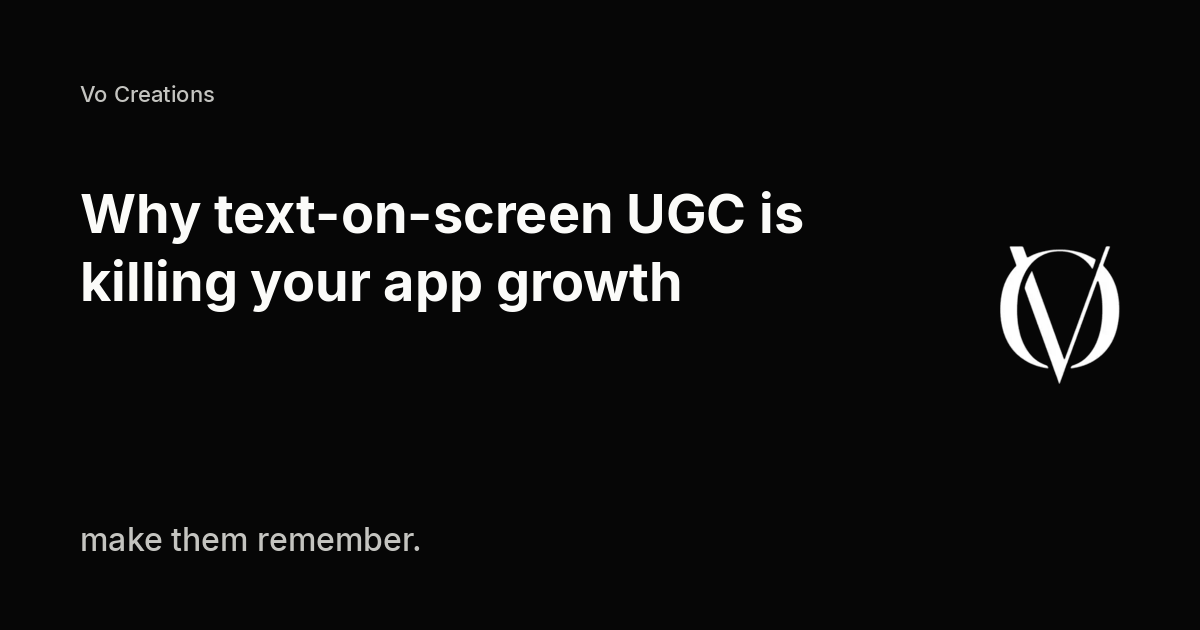
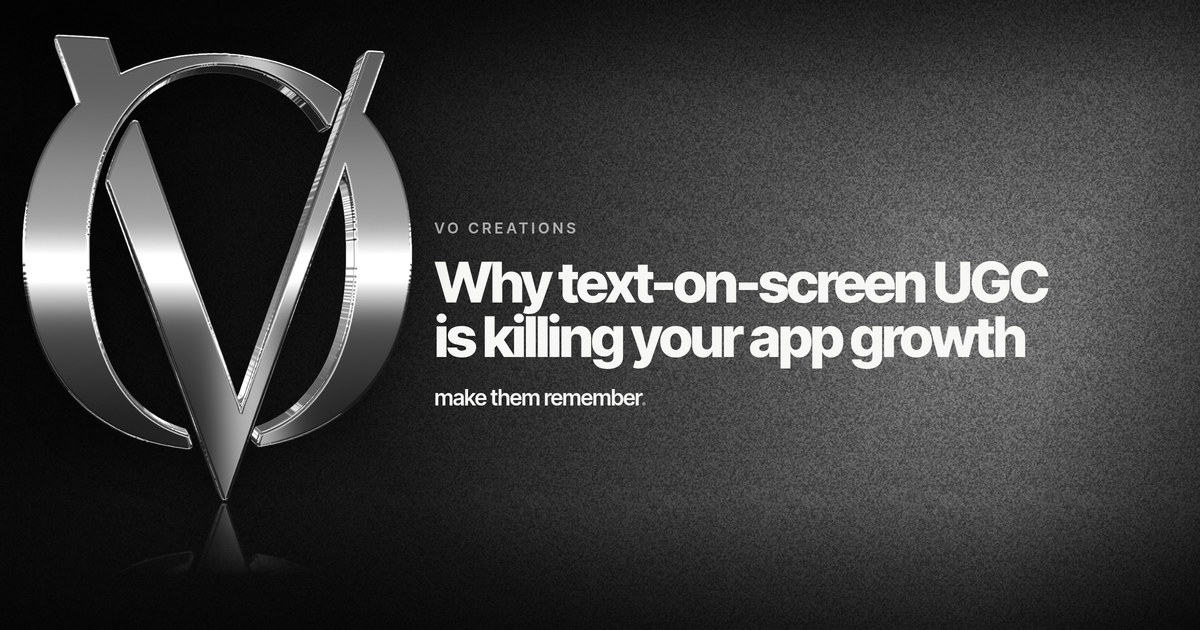
Redraw the blog covers with the chrome VO. (#52)
Index cards and post Open Graph images now use the chrome monogram on grainy silk, with the post title as the bold line and the tagline underneath.

diff --git a/scripts/render-blog-og.ts b/scripts/render-blog-og.ts
@@ -1,0 +1,146 @@
+/**
+ * Renders public/og/blog/<slug>.png from the same CSS as components/blog/BlogCover.tsx.
+ * Run: npm run og:blog
+ * Needs Google Chrome and the Inter Tight files downloaded on first run.
+ */
+import { mkdirSync, readFileSync, writeFileSync, rmSync, existsSync } from "node:fs";
+import { tmpdir } from "node:os";
+import { join, resolve } from "node:path";
+import { spawnSync } from "node:child_process";
+import { fileURLToPath } from "node:url";
+import { posts } from "../lib/blog/posts";
+
+const ROOT = resolve(fileURLToPath(new URL("..", import.meta.url)));
+const WIDTH = 1200;
+const HEIGHT = 630;
+const SCALE = 2;
+
+function coverCss(): string {
+  const css = readFileSync(join(ROOT, "app/globals.css"), "utf8");
+  const start = css.indexOf("/* blog-cover:start");
+  const end = css.indexOf("/* blog-cover:end */");
+  if (start < 0 || end < 0) throw new Error("blog-cover CSS markers missing from app/globals.css");
+  const block = css.slice(css.indexOf("*/", start) + 2, end);
+  const grain = join(ROOT, "public/brand/grain.png");
+  return block.replace('url("/brand/grain.png")', `url("${grain}")`);
+}
+
+function ensureFont(dir: string, file: string, url: string) {
+  const dest = join(dir, file);
+  const result = spawnSync("curl", ["-fsSL", "-o", dest, url], { stdio: "inherit" });
+  if (result.status !== 0) throw new Error(`Could not download ${file}`);
+  return dest;
+}
+
+function escapeHtml(value: string): string {
+  return value
+    .replace(/&/g, "&amp;")
+    .replace(/</g, "&lt;")
+    .replace(/>/g, "&gt;");
+}
+
+function cardHtml(title: string, mark: string, fontDir: string): string {
+  return `<!doctype html>
+<html>
+<head>
+<meta charset="utf-8" />
+<style>
+@font-face { font-family: "Inter Tight"; font-weight: 800; src: url("${join(fontDir, "InterTight-800.ttf")}") format("truetype"); }
+@font-face { font-family: "Inter Tight"; font-weight: 600; src: url("${join(fontDir, "InterTight-600.ttf")}") format("truetype"); }
+:root { --font-inter-tight: "Inter Tight"; }
+* { margin: 0; padding: 0; box-sizing: border-box; }
+html, body { width: ${WIDTH}px; height: ${HEIGHT}px; overflow: hidden; background: #050505; }
+${coverCss()}
+.blog-cover { width: ${WIDTH}px; height: ${HEIGHT}px; aspect-ratio: auto; }
+</style>
+</head>
+<body>
+<div class="blog-cover">
+  <div class="blog-cover-silk"></div>
+  <div class="blog-cover-grain"></div>
+  <div class="blog-cover-vignette"></div>
+  <div class="blog-cover-stage">
+    <div class="blog-cover-markcol">
+      <div class="blog-cover-mark"><img src="${mark}" alt="" /></div>
+      <div class="blog-cover-reflect"><img src="${mark}" alt="" /></div>
+    </div>
+    <div class="blog-cover-copy">
+      <p class="blog-cover-kicker">Vo Creations</p>
+      <p class="blog-cover-title">${escapeHtml(title)}</p>
+      <p class="blog-cover-tag">make them remember<span>.</span></p>
+    </div>
+  </div>
+</div>
+</body>
+</html>`;
+}
+
+function shot(htmlPath: string, pngPath: string) {
+  const profile = join(tmpdir(), `vo-og-chrome-${process.pid}-${Math.random().toString(16).slice(2)}`);
+  mkdirSync(profile, { recursive: true });
+  const result = spawnSync(
+    "timeout",
+    [
+      "8",
+      "google-chrome",
+      "--headless=new",
+      "--no-sandbox",
+      "--disable-gpu",
+      "--hide-scrollbars",
+      `--force-device-scale-factor=${SCALE}`,
+      `--window-size=${WIDTH},${HEIGHT}`,
+      `--user-data-dir=${profile}`,
+      "--virtual-time-budget=4000",
+      `--screenshot=${pngPath}`,
+      `file://${htmlPath}`,
+    ],
+    { stdio: "inherit" },
+  );
+  rmSync(profile, { recursive: true, force: true });
+  if (!existsSync(pngPath)) {
+    throw new Error(`chrome exited ${result.status} without writing ${pngPath}`);
+  }
+}
+
+function fit(src: string, dest: string) {
+  const py = `
+from PIL import Image
+im = Image.open(${JSON.stringify(src)}).convert("RGB")
+# Headless sometimes adds a scrollbar gutter. Keep the top-left card.
+im = im.crop((0, 0, min(im.width, ${WIDTH * SCALE}), min(im.height, ${HEIGHT * SCALE})))
+im = im.resize((${WIDTH}, ${HEIGHT}), Image.Resampling.LANCZOS)
+im.save(${JSON.stringify(dest)}, "PNG", optimize=True)
+print(im.size)
+`;
+  const result = spawnSync("python3", ["-c", py], { stdio: "inherit" });
+  if (result.status !== 0) throw new Error(`Could not write ${dest}`);
+}
+
+const fontDir = join(tmpdir(), "vo-og-fonts");
+mkdirSync(fontDir, { recursive: true });
+ensureFont(
+  fontDir,
+  "InterTight-800.ttf",
+  "https://fonts.gstatic.com/s/intertight/v9/NGSnv5HMAFg6IuGlBNMjxJEL2VmU3NS7Z2mjjwiqXA.ttf",
+);
+ensureFont(
+  fontDir,
+  "InterTight-600.ttf",
+  "https://fonts.gstatic.com/s/intertight/v9/NGSnv5HMAFg6IuGlBNMjxJEL2VmU3NS7Z2mj0QiqXA.ttf",
+);
+
+const mark = join(ROOT, "public/brand/chrome-mono.webp");
+const outDir = join(ROOT, "public/og/blog");
+mkdirSync(outDir, { recursive: true });
+const work = join(tmpdir(), "vo-og-html");
+mkdirSync(work, { recursive: true });
+
+for (const post of posts) {
+  const htmlPath = join(work, `${post.slug}.html`);
+  const rawPath = join(work, `${post.slug}-raw.png`);
+  const dest = join(outDir, `${post.slug}.png`);
+  writeFileSync(htmlPath, cardHtml(post.title, mark, fontDir));
+  shot(htmlPath, rawPath);
+  fit(rawPath, dest);
+  console.log(dest);
+}

diff --git a/app/globals.css b/app/globals.css
@@ -1910,3 +1910,118 @@ html.js-motion .hero-mark img {
   gap: 22px 28px;
   margin-top: 22px;
 }
+
+/* blog-cover:start
+   Chrome VO on grainy silk. The index renders this live so type stays sharp.
+   scripts/render-blog-og.ts screenshots the same rules for public/og/blog.
+   See docs/DECISIONS.md (topic: blog-cover-2026-11). */
+.blog-cover {
+  position: relative;
+  width: 100%;
+  aspect-ratio: 1200 / 630;
+  container-type: inline-size;
+  overflow: hidden;
+  background: #050505;
+  isolation: isolate;
+  font-family: var(--font-inter-tight), "Inter Tight", sans-serif;
+}
+.blog-cover-silk {
+  position: absolute;
+  inset: -14%;
+  background:
+    radial-gradient(ellipse 70% 90% at 74% 46%, rgba(255, 255, 255, 0.28), transparent 60%),
+    radial-gradient(ellipse 42% 55% at 96% 18%, rgba(255, 255, 255, 0.12), transparent 62%),
+    radial-gradient(ellipse 30% 40% at 12% 92%, rgba(255, 255, 255, 0.05), transparent 70%),
+    linear-gradient(108deg, #050505 0%, #0a0a0a 22%, #161616 42%, #2a2a2a 60%, #4a4a4a 76%, #1c1c1c 90%, #080808 100%);
+}
+.blog-cover-grain {
+  position: absolute;
+  inset: 0;
+  background-image: url("/brand/grain.png");
+  background-size: 11.5cqw 11.5cqw;
+  opacity: 0.38;
+  mix-blend-mode: overlay;
+  pointer-events: none;
+}
+.blog-cover-vignette {
+  position: absolute;
+  inset: 0;
+  background:
+    radial-gradient(ellipse 82% 78% at 48% 50%, transparent 40%, rgba(0, 0, 0, 0.62) 100%),
+    linear-gradient(to bottom, rgba(0, 0, 0, 0.35), transparent 16%, transparent 80%, rgba(0, 0, 0, 0.5));
+  pointer-events: none;
+}
+.blog-cover-stage {
+  position: absolute;
+  inset: 0;
+  display: flex;
+  align-items: center;
+  padding: 0 5.2cqw 0 1.6cqw;
+  gap: 1.6cqw;
+}
+.blog-cover-markcol {
+  flex: 0 0 33cqw;
+  width: 33cqw;
+  display: flex;
+  flex-direction: column;
+  align-items: center;
+}
+.blog-cover-mark {
+  width: 33cqw;
+  height: 39.4cqw;
+}
+.blog-cover-mark img {
+  display: block;
+  width: 100%;
+  height: 100%;
+  object-fit: contain;
+  filter: drop-shadow(0 1.2cqw 1.6cqw rgba(0, 0, 0, 0.4));
+}
+.blog-cover-reflect {
+  width: 31cqw;
+  height: 8.2cqw;
+  margin-top: -0.35cqw;
+  overflow: hidden;
+  -webkit-mask-image: linear-gradient(to bottom, rgba(0, 0, 0, 0.72) 0%, rgba(0, 0, 0, 0.28) 38%, transparent 78%);
+  mask-image: linear-gradient(to bottom, rgba(0, 0, 0, 0.72) 0%, rgba(0, 0, 0, 0.28) 38%, transparent 78%);
+}
+.blog-cover-reflect img {
+  display: block;
+  width: 31cqw;
+  height: 37cqw;
+  object-fit: contain;
+  transform: scaleY(-1);
+  filter: blur(0.4px);
+}
+.blog-cover-copy {
+  flex: 1;
+  min-width: 0;
+  padding-right: 0.4cqw;
+}
+.blog-cover-kicker {
+  font-weight: 600;
+  font-size: max(11px, 1.25cqw);
+  letter-spacing: 0.22em;
+  text-transform: uppercase;
+  color: rgba(255, 255, 255, 0.62);
+  margin-bottom: max(6px, 1.5cqw);
+}
+.blog-cover-title {
+  font-weight: 800;
+  font-size: max(16px, 4.7cqw);
+  line-height: 0.96;
+  letter-spacing: -0.046em;
+  color: #f7f7f5;
+  text-wrap: balance;
+}
+.blog-cover-tag {
+  margin-top: max(8px, 1.7cqw);
+  font-weight: 600;
+  font-size: max(13px, 1.85cqw);
+  letter-spacing: -0.03em;
+  color: #f4f4f2;
+}
+.blog-cover-tag span {
+  color: #8d8d88;
+}
+/* blog-cover:end */

diff --git a/components/blog/BlogCover.tsx b/components/blog/BlogCover.tsx
@@ -1,0 +1,42 @@
+// DECISION 2026-11: blog covers reuse the chrome monogram on a silk card — see docs/DECISIONS.md
+
+type BlogCoverProps = {
+  title: string;
+  /** First card on the index. Loads the monogram ahead of the rest. */
+  priority?: boolean;
+};
+
+export default function BlogCover({ title, priority = false }: BlogCoverProps) {
+  return (
+    <div className="blog-cover" aria-hidden="true">
+      <div className="blog-cover-silk" />
+      <div className="blog-cover-grain" />
+      <div className="blog-cover-vignette" />
+      <div className="blog-cover-stage">
+        <div className="blog-cover-markcol">
+          <div className="blog-cover-mark">
+            <img
+              src="/brand/chrome-mono.webp"
+              alt=""
+              width={936}
+              height={1117}
+              decoding={priority ? "sync" : "async"}
+              loading={priority ? "eager" : "lazy"}
+              {...(priority ? { fetchPriority: "high" as const } : {})}
+            />
+          </div>
+          <div className="blog-cover-reflect">
+            <img src="/brand/chrome-mono.webp" alt="" width={936} height={1117} decoding="async" />
+          </div>
+        </div>
+        <div className="blog-cover-copy">
+          <p className="blog-cover-kicker">Vo Creations</p>
+          <p className="blog-cover-title">{title}</p>
+          <p className="blog-cover-tag">
+            make them remember<span>.</span>
+          </p>
+        </div>
+      </div>
+    </div>
+  );
+}

diff --git a/components/blog/BlogIndexList.tsx b/components/blog/BlogIndexList.tsx
@@ -2,7 +2,7 @@
 
 import { useState } from "react";
 import Link from "next/link";
-import Image from "next/image";
+import BlogCover from "@/components/blog/BlogCover";
 import { formatBlogDate, type BlogPostMeta } from "@/lib/blog/posts";
 
 export default function BlogIndexList({ posts }: { posts: BlogPostMeta[] }) {
@@ -30,20 +30,13 @@ export default function BlogIndexList({ posts }: { posts: BlogPostMeta[] }) {
         })}
       </div>
       <div className="flex flex-col gap-4">
-        {visible.map((post) => (
+        {visible.map((post, index) => (
           <Link
             key={post.slug}
             href={`/blog/${post.slug}`}
             className="block overflow-hidden rounded-2xl border border-white/10 bg-bg-card/50 hover:border-white/20"
           >
-            <Image
-              src={`/og/blog/${post.slug}.png`}
-              alt={post.title}
-              width={1200}
-              height={630}
-              sizes="(max-width: 768px) 100vw, 720px"
-              className="h-auto w-full"
-            />
+            <BlogCover title={post.title} priority={index === 0} />
             <div className="px-6 py-6">
               <p className="mb-3 text-[15px] font-semibold text-[#d4d4d0]">
                 {post.category} · {formatBlogDate(post.datePublished)} · {post.readingMinutes} min read

diff --git a/docs/DECISIONS.md b/docs/DECISIONS.md
@@ -3361,3 +3361,12 @@ The owner pointed at the journal card (the white serif VO on the black “UGC in
 - The background is one fixed silk for the whole marketing site. `VeilBackground` draws a CSS satin sheet (slow transform, compositor-only) plus the existing film grain. DarkVeil still starts only on desktop after idle, fully desaturated, and the CSS drift stops once that canvas is up so two animations are not running. Phones and reduced motion keep the static sheet. `/privacy`, `/terms`, and `/refund-policy` moved onto the editorial header and footer so they sit on that field instead of the floating pill.
 - Cobalt came off. Let’s Talk and Book a call are white pills with black type. Stat dots, the work progress line, Book a call underlines, and the open FAQ mark are white. White on the silk read cleaner than cobalt against a monochrome field.
 - Locked lines were not changed: the eyebrow, the 1000+ subline, the title, the footer tagline, and the closer “1B+ views. Your target CPM, guaranteed.” The 7-clip coverflow, Good fit / Not a fit, FAQ, grayscale team photos, and the grayscale Trusted By row (including Higgsfield and Krea) stayed. Videos stayed in color. No new stat was added.
+
+## topic: blog-cover-2026-11 — _2026-11-02_
+
+Blog index cards and the post Open Graph images were the flat black frame: a small serif VO, the title, and the tagline. They were redrawn to the owner's Discord banner.
+
+- The mark is the existing chrome monogram `public/brand/chrome-mono.webp` (the C-mockup "Fig. 01" render), not a new trace of `vo-logo.svg`. A flipped copy of that file sits under it as the floor reflection, masked so it fades out. The field is a black-to-grey silk, the site grain (`public/brand/grain.png`), and a vignette.
+- The post title is the bold Inter Tight line. "make them remember." sits under it, and the period is `#8d8d88`. A small "Vo Creations" kicker stays so a shared card still names the brand. Every post uses that frame. The title is not a second headline for assistive tech: the cover is `aria-hidden` and the index card keeps its `h2`.
+- The index renders `components/blog/BlogCover.tsx` as HTML, sized with container-query units, so the type stays sharp when the card scales. Open Graph files stay `public/og/blog/<slug>.png` at 1200×630. `scripts/render-blog-og.ts` (`npm run og:blog`) screenshots those same CSS rules. The homepage journal still reads that PNG, so it picks up the new frame without a layout change.
+- The serif logo, white-on-black buttons, and the rest of the site were left alone.

diff --git a/CLAUDE.md b/CLAUDE.md
@@ -91,6 +91,7 @@ Next.js 14 (App Router), TypeScript, Tailwind CSS. Hosted on Vercel, git-connect
 - `c-hero-blog-fit-2026-11` — superseded for color, type, and hero size by `dark-premium-2026-11`. The 7-clip coverflow, Good fit / Not a fit, and shared blog chrome stayed.
 - `dark-premium-2026-11` — superseded for the mark and the accent by `silk-monogram-2026-11`. Homepage and blog stay near-black with white type. Display type is Inter Tight. The coverflow is a full-width row from 1280px (268px card, 300px from 1440px) with no reflection. Locked copy is unchanged. Higgsfield and Krea stay. Founder photos and logos stay grayscale. Videos stay in color.
 - `silk-monogram-2026-11` — the white serif VO monogram (`public/brand/vo-logo.svg`) is the primary logo in the nav, footer, hero (large, right of the lockup, from 1024px), closer, favicon, and Open Graph image. The field is grainy black-and-white silk on every marketing route, including privacy and terms. Filled CTAs are white on black. Cobalt is gone.
+- `blog-cover-2026-11` — blog index cards and post Open Graph images use the chrome VO (`public/brand/chrome-mono.webp`) on grainy silk, with the post title as the bold line and "make them remember." under it. The serif logo and white buttons stay.
 
 ## Known-broken
 <!-- Capped ~1 screen. Each entry: what + recheck-by + clearing condition. Past recheck-by → verify against code, don't trust. -->

diff --git a/docs/SITE.md b/docs/SITE.md
@@ -43,7 +43,10 @@ only:
   Homepage sections sit in a `max-w-[1440px]` rail.
   Blog posts share `components/blog/Article.tsx` (answer under the H1, TOC,
   FAQPage + BlogPosting + BreadcrumbList JSON-LD). The index and sitemap
-  read `lib/blog/posts.ts`. Sitemap: `app/sitemap.ts`. `/campaigns/maxxd` returns 410.
+  read `lib/blog/posts.ts`. Index cards are `components/blog/BlogCover.tsx`:
+  the chrome monogram (`public/brand/chrome-mono.webp`) on a grainy silk,
+  the post title, and the tagline. `scripts/render-blog-og.ts` writes that
+  same frame to `public/og/blog/<slug>.png`. Sitemap: `app/sitemap.ts`. `/campaigns/maxxd` returns 410.
   `/privacy` and `/terms` are real pages. `/refund-policy` is the agency refund policy.
 - Display type on the homepage and blog is Inter Tight. Body is Inter. Both come from `next/font` in `app/layout.tsx`. Filled buttons (Let's Talk, Book a call) are white on black. Stat dots, the work progress line, Book a call underlines, and the open FAQ mark are white. The primary mark is `public/brand/vo-logo.svg`. Favicon, apple touch icon, and `app/icon.png` are the same monogram on black. Organization `logo` points at `public/brand/vo-mark.png`.
   `components/VeilBackground.tsx` paints a CSS satin sheet on every route (a slow transform, off for reduced motion, and paused once the canvas starts). DarkVeil stays off
